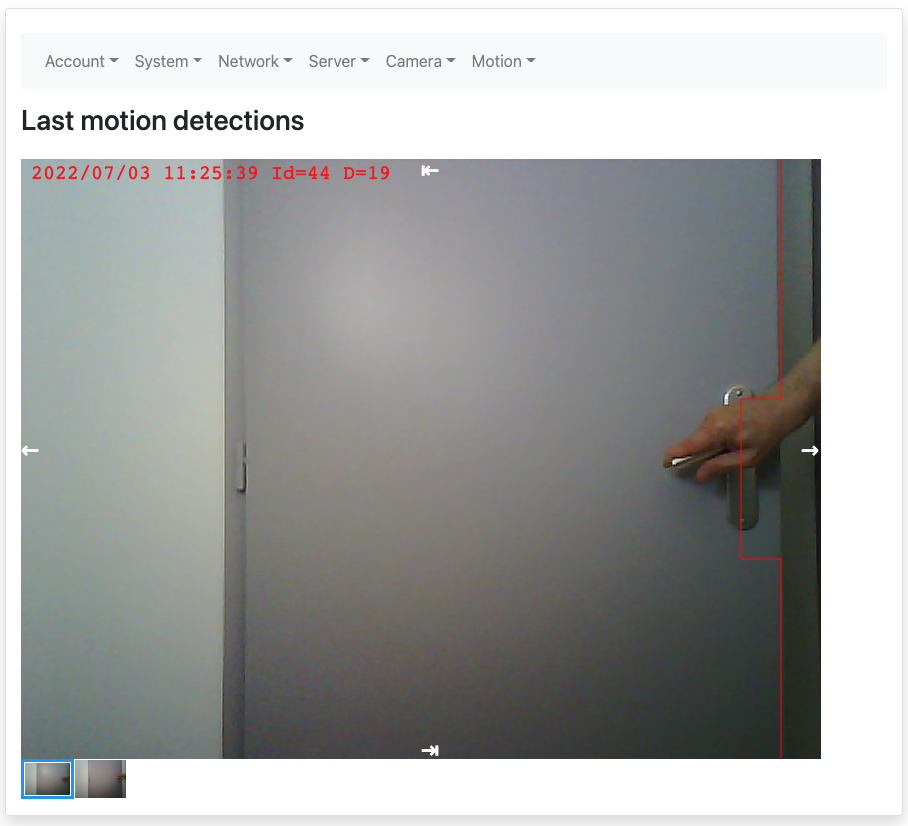
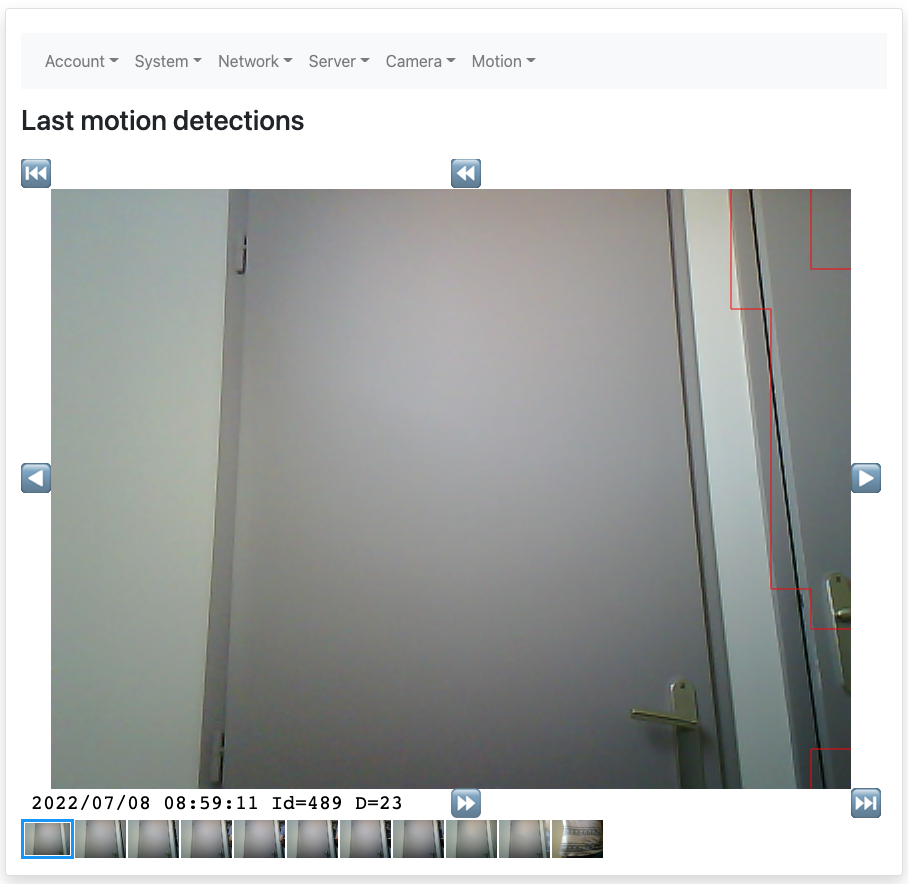
improved ergonomics of the history of motion detections

diff --git a/modules/lib/webpage/historicpage.py b/modules/lib/webpage/historicpage.py
@@ -33,7 +33,7 @@ async def historic(request, response, args):
 		var image_request    = new XMLHttpRequest();
 
 		setInterval(show, 200);
-  
+
 		const MOTION_FILENAME =0;
 		const MOTION_WIDTH    =1;
 		const MOTION_HEIGHT   =2;
@@ -134,13 +134,15 @@ async def historic(request, response, args):
 			var motion = historic[id];
 			var ctx = document.getElementById('motion').getContext('2d');
 			
-			ctx.drawImage(document.getElementById(id), 0, 0, motion[MOTION_WIDTH], motion[MOTION_HEIGHT]);
+			var offsetX = 30;
+			var offsetY = 30;
+			ctx.drawImage(document.getElementById(id), offsetX, offsetY, motion[MOTION_WIDTH], motion[MOTION_HEIGHT]);
 			var x;
 			var y;
 
 			// Show thumb image selected
 			document.getElementById(previousId).style.border = "";
-			document.getElementById(id).style.border = "3px solid dodgerblue";
+			document.getElementById(id).style.border = "5px solid dodgerblue";
 			previousId = id;
 
 			var squarex = motion[MOTION_SQUAREX];
@@ -158,7 +160,7 @@ async def historic(request, response, args):
 						if (detection != " ")
 						{
 							ctx.strokeStyle = "yellow";
-							ctx.strokeRect(x * squarex + 15, y*squarey +15, squarex-30, squarey-30);
+							ctx.strokeRect(offsetX + (x * squarex + 15),offsetY + (y*squarey +15), squarex-30, squarey-30);
 						}
 					}
 				}
@@ -176,8 +178,8 @@ async def historic(request, response, args):
 						if (previous != detection)
 						{
 							ctx.beginPath();
-							ctx.moveTo(x*squarex, y*squarey);
-							ctx.lineTo(x*squarex, y*squarey + squarey);
+							ctx.moveTo(offsetX + x*squarex, offsetY + y*squarey);
+							ctx.lineTo(offsetX + x*squarex, offsetY + y*squarey + squarey);
 							ctx.stroke();
 						}
 					}
@@ -195,8 +197,8 @@ async def historic(request, response, args):
 						if (previous != detection)
 						{
 							ctx.beginPath();
-							ctx.moveTo(x*squarex, y*squarey);
-							ctx.lineTo(x*squarex + squarex, y*squarey);
+							ctx.moveTo(offsetX + x*squarex, offsetY + y*squarey);
+							ctx.lineTo(offsetX + x*squarex + squarex, offsetY + y*squarey);
 							ctx.stroke();
 						}
 					}
@@ -205,16 +207,34 @@ async def historic(request, response, args):
 
 			// Show text image
 			ctx.font = '20px monospace';
-			ctx.fillStyle = "red";
-			ctx.fillText(get_name(motion[MOTION_FILENAME]), 10, 20);
+			ctx.fillStyle = "white";
+			ctx.rect(0, offsetY + motion[MOTION_HEIGHT],  motion[MOTION_WIDTH], 100);
+			ctx.fill();
+
+			ctx.fillStyle = "black";
+			ctx.fillText(get_name(motion[MOTION_FILENAME]),  10, offsetY + motion[MOTION_HEIGHT] + 20);
 
 			// Show arrows
 			ctx.fillStyle = 'rgba(255,255,255,10)';
 			ctx.font = '30px monospace';
-			ctx.fillText("\xE2\x86\x90", 0, motion[MOTION_HEIGHT]/2);
-			ctx.fillText("\xE2\x86\x92", motion[MOTION_WIDTH]-20, motion[MOTION_HEIGHT]/2);
-			ctx.fillText("\xE2\x87\xA4", motion[MOTION_WIDTH]/2, 20);
-			ctx.fillText("\xE2\x87\xA5", motion[MOTION_WIDTH]/2, motion[MOTION_HEIGHT]);
+			
+			// Previous
+			ctx.fillText("\u25C0\uFE0F", 0, offsetY + motion[MOTION_HEIGHT]/2); 
+			
+			// Next
+			ctx.fillText("\u25B6\uFE0F", offsetX + motion[MOTION_WIDTH], offsetY + motion[MOTION_HEIGHT]/2);
+
+			// Previous day
+			ctx.fillText("\u23EA",  offsetX + motion[MOTION_WIDTH]/2, 25); 
+			
+			// Next day
+			ctx.fillText("\u23E9", offsetX + motion[MOTION_WIDTH]/2,25+ offsetY + motion[MOTION_HEIGHT]);
+
+			// Begin
+			ctx.fillText("\u23EE\uFE0F",0, 25);
+
+			// End
+			ctx.fillText("\u23ED\uFE0F", offsetX + motion[MOTION_WIDTH], 25+offsetY + motion[MOTION_HEIGHT]);
 		}
 
 		// Convert the filename into text displayed
@@ -223,6 +243,7 @@ async def historic(request, response, args):
 			filename = filename.split(".")[0];
 			lst = filename.split("/");
 			filename = lst[lst.length-1];
+			filename = filename.replace("D= ","D=");
 			spl = filename.split(" ");
 
 			if (spl.length == 3)
@@ -239,6 +260,11 @@ async def historic(request, response, args):
 				result = filename;
 			}
 			return result;
+		}
+
+		function get_date(filename)
+		{
+			return get_name(filename).substring(0,10);
 		}
 
 		function click_motion(id)
@@ -277,15 +303,72 @@ async def historic(request, response, args):
 			}
 		}
 
+		function next_day_motion()
+		{
+			if (current_id + 1 < last_id)
+			{
+				var new_id = current_id;
+
+				do
+				{
+					new_id += 1;
+					if (get_date(historic[new_id][MOTION_FILENAME]) != get_date(historic[current_id][MOTION_FILENAME]))
+					{
+						current_id = new_id;
+						show_motion(current_id);
+						break;
+					}
+				}
+				while (new_id + 1 < last_id);
+			}
+		}
+
+		function previous_day_motion()
+		{
+			if (current_id > 0)
+			{
+				var new_id = current_id;
+
+				do
+				{
+					new_id -= 1;
+
+					if (get_date(historic[new_id][MOTION_FILENAME]) != get_date(historic[current_id][MOTION_FILENAME]))
+					{
+						current_id = new_id;
+
+						do
+						{
+							new_id -= 1;
+							if (get_date(historic[new_id][MOTION_FILENAME]) == get_date(historic[current_id][MOTION_FILENAME]))
+							{
+								current_id = new_id;
+							}
+							else
+							{
+								break;
+							}
+						}
+						while(new_id - 1 >= 0);
+						show_motion(current_id);
+						break;
+					}
+				}
+				while (new_id - 1 >= 0);
+			}
+		}
+
 		function check_key(e)
 		{
 			e = e || window.event;
 
 			if (e.keyCode == '38') // up arrow
 			{
+				previous_day_motion();
 			}
 			else if (e.keyCode == '40') // down arrow
 			{
+				next_day_motion();
 			}
 			else if (e.keyCode == '37') // left arrow
 			{
@@ -317,8 +400,18 @@ async def historic(request, response, args):
 			const x = e.clientX - rect.left;
 			const y = e.clientY - rect.top;
 
+			// If click on first
+			if (x < 100 && y < 100)
+			{
+				first_motion();
+			}
+			// If click on last
+			else if (x > (rect.width - 100) && y > (rect.height -100))
+			{
+				last_motion();
+			}
 			// If the click is in the middle
-			if (x > rect.width/3 && x < (2*rect.width/3) && y > rect.height/3 && y < (2*rect.height/3))
+			else if (x > rect.width/3 && x < (2*rect.width/3) && y > rect.height/3 && y < (2*rect.height/3))
 			{
 				// Download image
 				if (confirm("Download this image ?"))
@@ -338,7 +431,7 @@ async def historic(request, response, args):
 						}
 						else
 						{
-							first_motion();
+							previous_day_motion();
 						}
 					}
 					else
@@ -349,7 +442,7 @@ async def historic(request, response, args):
 						}
 						else
 						{
-							last_motion();
+							next_day_motion();
 						}
 					}
 				}
@@ -363,7 +456,7 @@ async def historic(request, response, args):
 						}
 						else
 						{
-							first_motion();
+							previous_day_motion();
 						}
 					}
 					else
@@ -374,7 +467,7 @@ async def historic(request, response, args):
 						}
 						else
 						{
-							last_motion();
+							next_day_motion();
 						}
 					}
 				}
@@ -385,7 +478,7 @@ async def historic(request, response, args):
 		<canvas id="motion" width="%d" height="%d" ></canvas>
 		<br>
 		<div id="motions"></div>
-		"""%(lang.historic_not_available, detailled, 800,600)),
+		"""%(lang.historic_not_available, detailled, 860,660)),
 	]
 	page = main_frame(request, response, args,lang.last_motion_detections,pageContent)
 	await response.send_page(page)

diff --git a/modules/lib/motion/historic.py b/modules/lib/motion/historic.py
@@ -77,7 +77,8 @@ class Historic:
 		if item is not None:
 			if not filesystem.ismicropython():
 				# Remove the "/" before filename
-				item [0] = item[0][1:]
+				item [0] = item [0].lstrip("/")
+
 			# Add json file to the historic
 			Historic.historic.insert(0,item)
 
@@ -97,7 +98,10 @@ class Historic:
 						file = None
 						file = open(motion, "rb")
 						motion_item = json.load(file)
-						if filesystem.exists(motion_item[0]):
+						filename = motion_item[0]
+						if not filesystem.ismicropython():
+							filename = filename.lstrip("/")
+						if filesystem.exists(filename):
 							Historic.add_item(motion_item)
 					except OSError as err:
 						logger.syslog(err)

diff --git a/modules/lib/motion/motion.py b/modules/lib/motion/motion.py
@@ -107,11 +107,11 @@ class ImageMotion:
 
 	def get_filename(self):
 		""" Get the storage filename """
-		return "%s Id=%d D=%2d"%(self.filename, self.index, self.get_diff_count())
+		return "%s Id=%d D=%d"%(self.filename, self.index, self.get_diff_count())
 
 	def get_message(self):
 		""" Get the message of motion """
-		return "%s %s D=%2d"%(strings.tostrings(lang.motion_detected), self.date[-8:], self.get_diff_count())
+		return "%s %s D=%d"%(strings.tostrings(lang.motion_detected), self.date[-8:], self.get_diff_count())
 
 	def get_informations(self):
 		""" Return the informations of motion """

diff --git a/doc/CAMFLASHER.md b/doc/CAMFLASHER.md
@@ -112,13 +112,17 @@ The **Account** submenu allows you to configure the password, the language :
 ![WebMenu](/images/WebMenu_Account.png "WebMenu")
 
 The **System** submenu allows you to request a reboot, obtain information on the device, configure the wake up and the battery mode :
+
 ![WebMenu](/images/WebMenu_System.png "WebMenu")
 
-The **Network** submenu is used to configure the access point and wifi networks
+The **Network** submenu is used to configure the access point and wifi networks :
+
 ![WebMenu](/images/WebMenu_Network.png "WebMenu")
 
 The **Server** submenu allows the activation/deactivation of each server, to configure pushover notifications, and to configure the presence detection of smartphones to automate the start/stop of motion detection :
+
 ![WebMenu](/images/WebMenu_Server.png "WebMenu")
+
 The **Camera** submenu allows to see the streaming of the camera, and also to activate/deactivate the camera :
 
 ![WebMenu](/images/WebMenu_Camera.png "WebMenu")
@@ -129,7 +133,7 @@ The **Motion** submenu allows you to start and stop motion detection, configure 
 
 # Region settings
 
-you can configure the time zone offset to synchronize the time as well as the language (french and english). The language will only be taken into account at the next reboot.
+You can configure the time zone offset to synchronize the time as well as the language (french and english). The language will only be taken into account at the next reboot.
 
 - Select the **Account**/**Region**
 
@@ -293,6 +297,21 @@ If you have pushover notifications enabled, you will receive all detections on t
 ![WebMenu](/images/WebMenu_MotionHistoric.png "WebMenu")
 
 The red frames indicate the areas that have triggered a notification.
+
+Action on the image :
+
+- ⏮ : click on top left corner of image switches to first motion detection (also page up key)
+- ⏭ : bottom right corner of image switches to last motion detection (also page down key)
+- ⏪ : click on the top of the image to switches to the previous day of motion detection (also up arrow key)
+- ⏩ : click on the bottom of the image switches to the next day of motion detection (also down arrow key)
+- ◀ : click on the left of the image switches to the previous motion detection (also left arrow key)
+- ▶ : click on the left of the image switches to the next motion detection (also right arrow key)
+- ⏺ : click in the middle of the image to save the image on your computer
+
+The image information is : 
+- **YYYY/MM/DD hh:mm:ss** : date and time of the motion detection,
+- **Id=xxx** : identification number of the images since the launch of the detection,
+- **D=xxx** : number of squares in the image that have changed since the previous image (see red frames).
 
 # System menu
 
